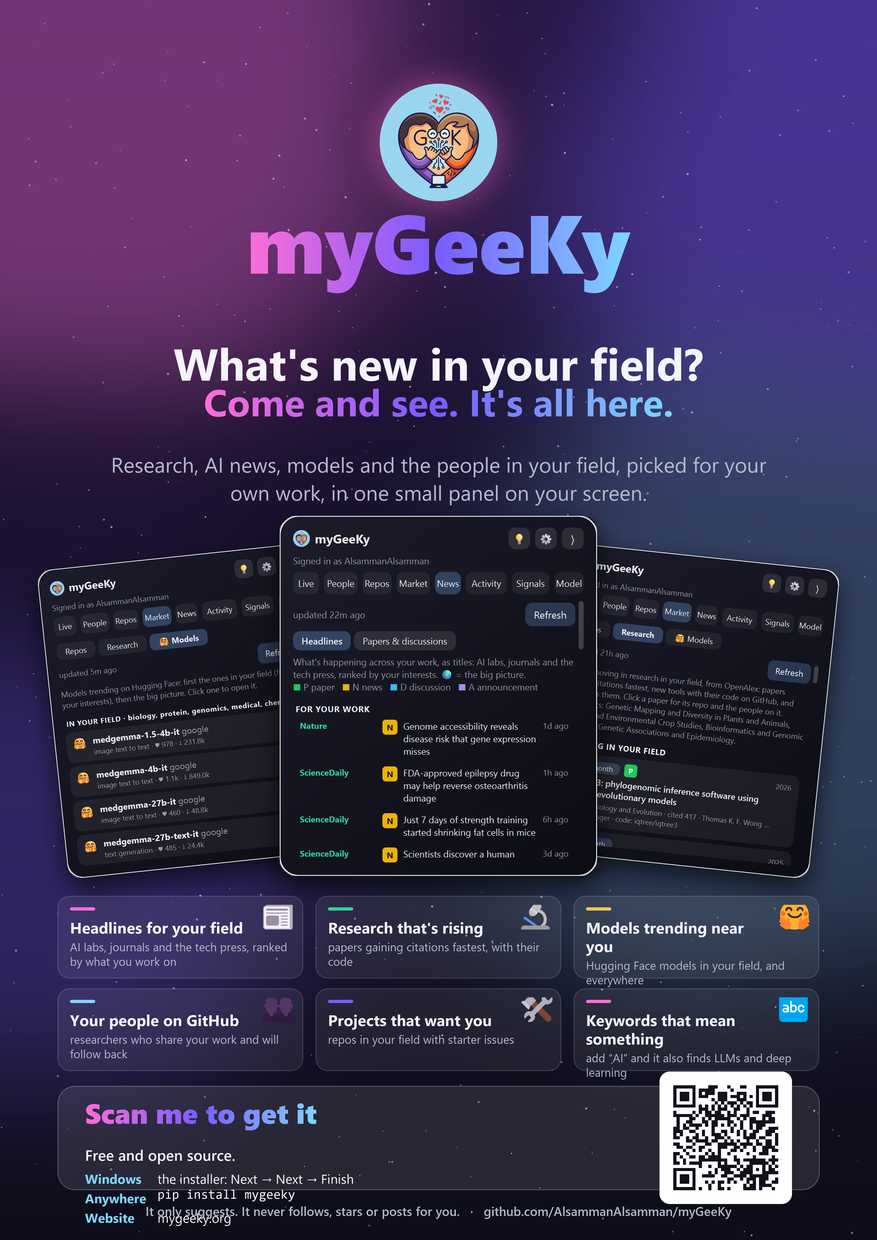
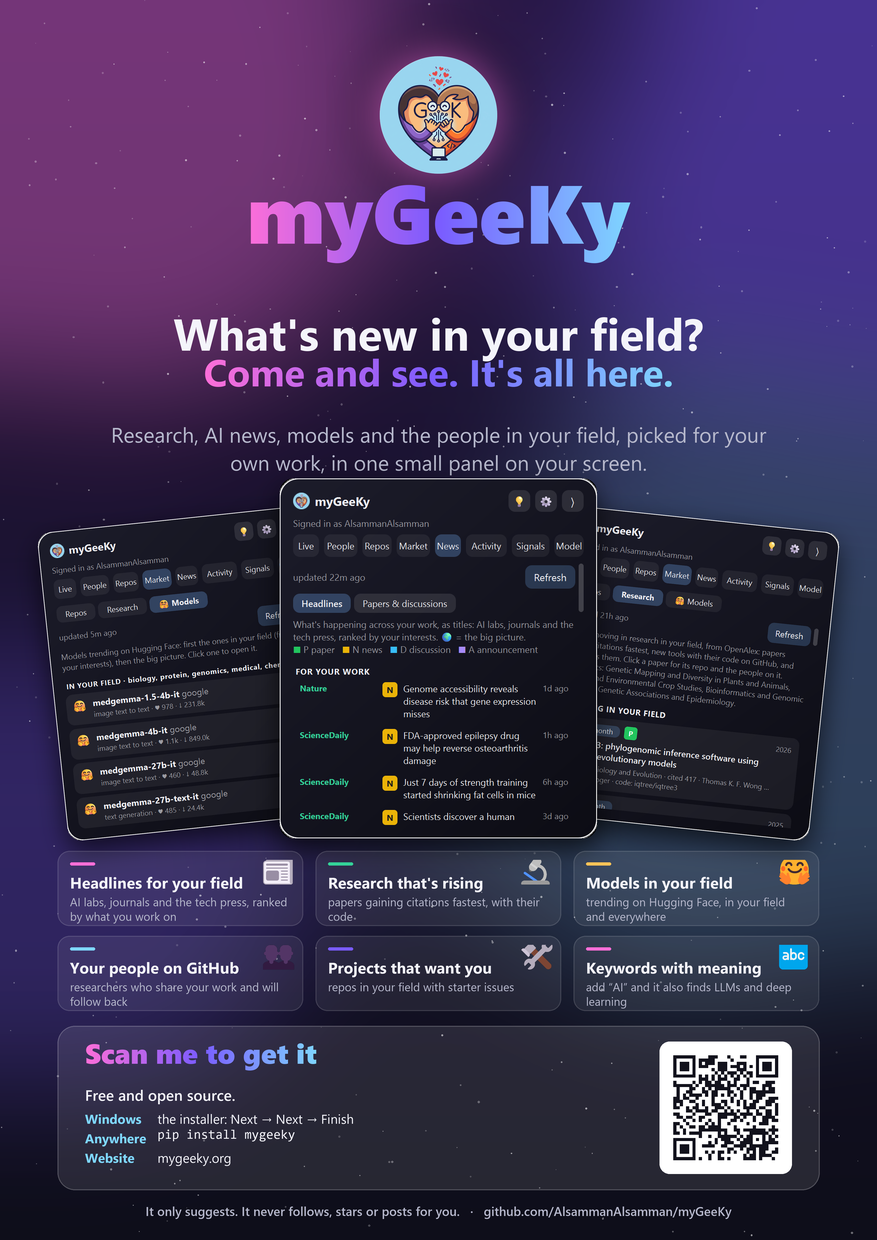
README: Models and the wall poster in the gallery (0.11.1)
The gallery adds Market -> Models and the printable wall poster (A3 PDF);
the News caption mentions Headlines. The poster preview is the final one.

Changed region(s): [[0.0308, 0.0306, 0.9544, 1.0]]

diff --git a/src/mygeeky/__init__.py b/src/mygeeky/__init__.py
@@ -4,4 +4,4 @@ myGeeKy never follows anyone automatically. It only ever suggests; you
 decide who to follow, by hand, on github.com.
 """
 
-__version__ = "0.11.0"
+__version__ = "0.11.1"

diff --git a/README.md b/README.md
@@ -157,12 +157,17 @@ myGeeKy reminds you a week before either one expires, and `mygeeky auth status` 
 <tr>
 <td align="center"><img src="https://raw.githubusercontent.com/AlsammanAlsamman/myGeeKy/main/docs/screenshots/market.png" width="260" alt="Market tab"><br><b>Market</b><br><sub>Your field's repos as a stock race: stars, commits, downloads</sub></td>
 <td align="center"><img src="https://raw.githubusercontent.com/AlsammanAlsamman/myGeeKy/main/docs/screenshots/research.png" width="260" alt="Research view"><br><b>Market → Research</b><br><sub>Rising papers, their code, and the people behind them (OpenAlex)</sub></td>
-<td align="center"><img src="https://raw.githubusercontent.com/AlsammanAlsamman/myGeeKy/main/docs/screenshots/news.png" width="260" alt="News tab"><br><b>News</b><br><sub>arXiv, bioRxiv and Hacker News about your interests</sub></td>
+<td align="center"><img src="https://raw.githubusercontent.com/AlsammanAlsamman/myGeeKy/main/docs/screenshots/news.png" width="260" alt="News tab"><br><b>News</b><br><sub>Headlines from AI labs, journals and the tech press, ranked for your work; plus papers and discussions</sub></td>
 </tr>
 <tr>
 <td align="center"><img src="https://raw.githubusercontent.com/AlsammanAlsamman/myGeeKy/main/docs/screenshots/activity.png" width="260" alt="Activity tab"><br><b>Activity</b><br><sub>One card per person: what they're building right now</sub></td>
 <td align="center"><img src="https://raw.githubusercontent.com/AlsammanAlsamman/myGeeKy/main/docs/screenshots/signals.png" width="260" alt="Signals tab"><br><b>Signals</b><br><sub>Private 🙏 📚 👀 from fellow users; 🤝 only when you both choose it <i>(example people)</i></sub></td>
 <td align="center"><img src="https://raw.githubusercontent.com/AlsammanAlsamman/myGeeKy/main/docs/screenshots/model.png" width="260" alt="Model tab"><br><b>Model</b><br><sub>What myGeeKy knows about you: your interest map, what teaches it, room to explore</sub></td>
+</tr>
+<tr>
+<td align="center"><img src="https://raw.githubusercontent.com/AlsammanAlsamman/myGeeKy/main/docs/screenshots/models.png" width="260" alt="Models view"><br><b>Market → 🤗 Models</b><br><sub>Hugging Face models trending in your field, and everywhere</sub></td>
+<td></td>
+<td align="center"><a href="https://raw.githubusercontent.com/AlsammanAlsamman/myGeeKy/main/launch/poster/mygeeky-poster.pdf"><img src="https://raw.githubusercontent.com/AlsammanAlsamman/myGeeKy/main/launch/poster/mygeeky-poster-preview.png" width="200" alt="The myGeeKy wall poster"></a><br><b>Wall poster</b><br><sub>Print it for your lab or department (A3, PDF)</sub></td>
 </tr>
 </table>
 
